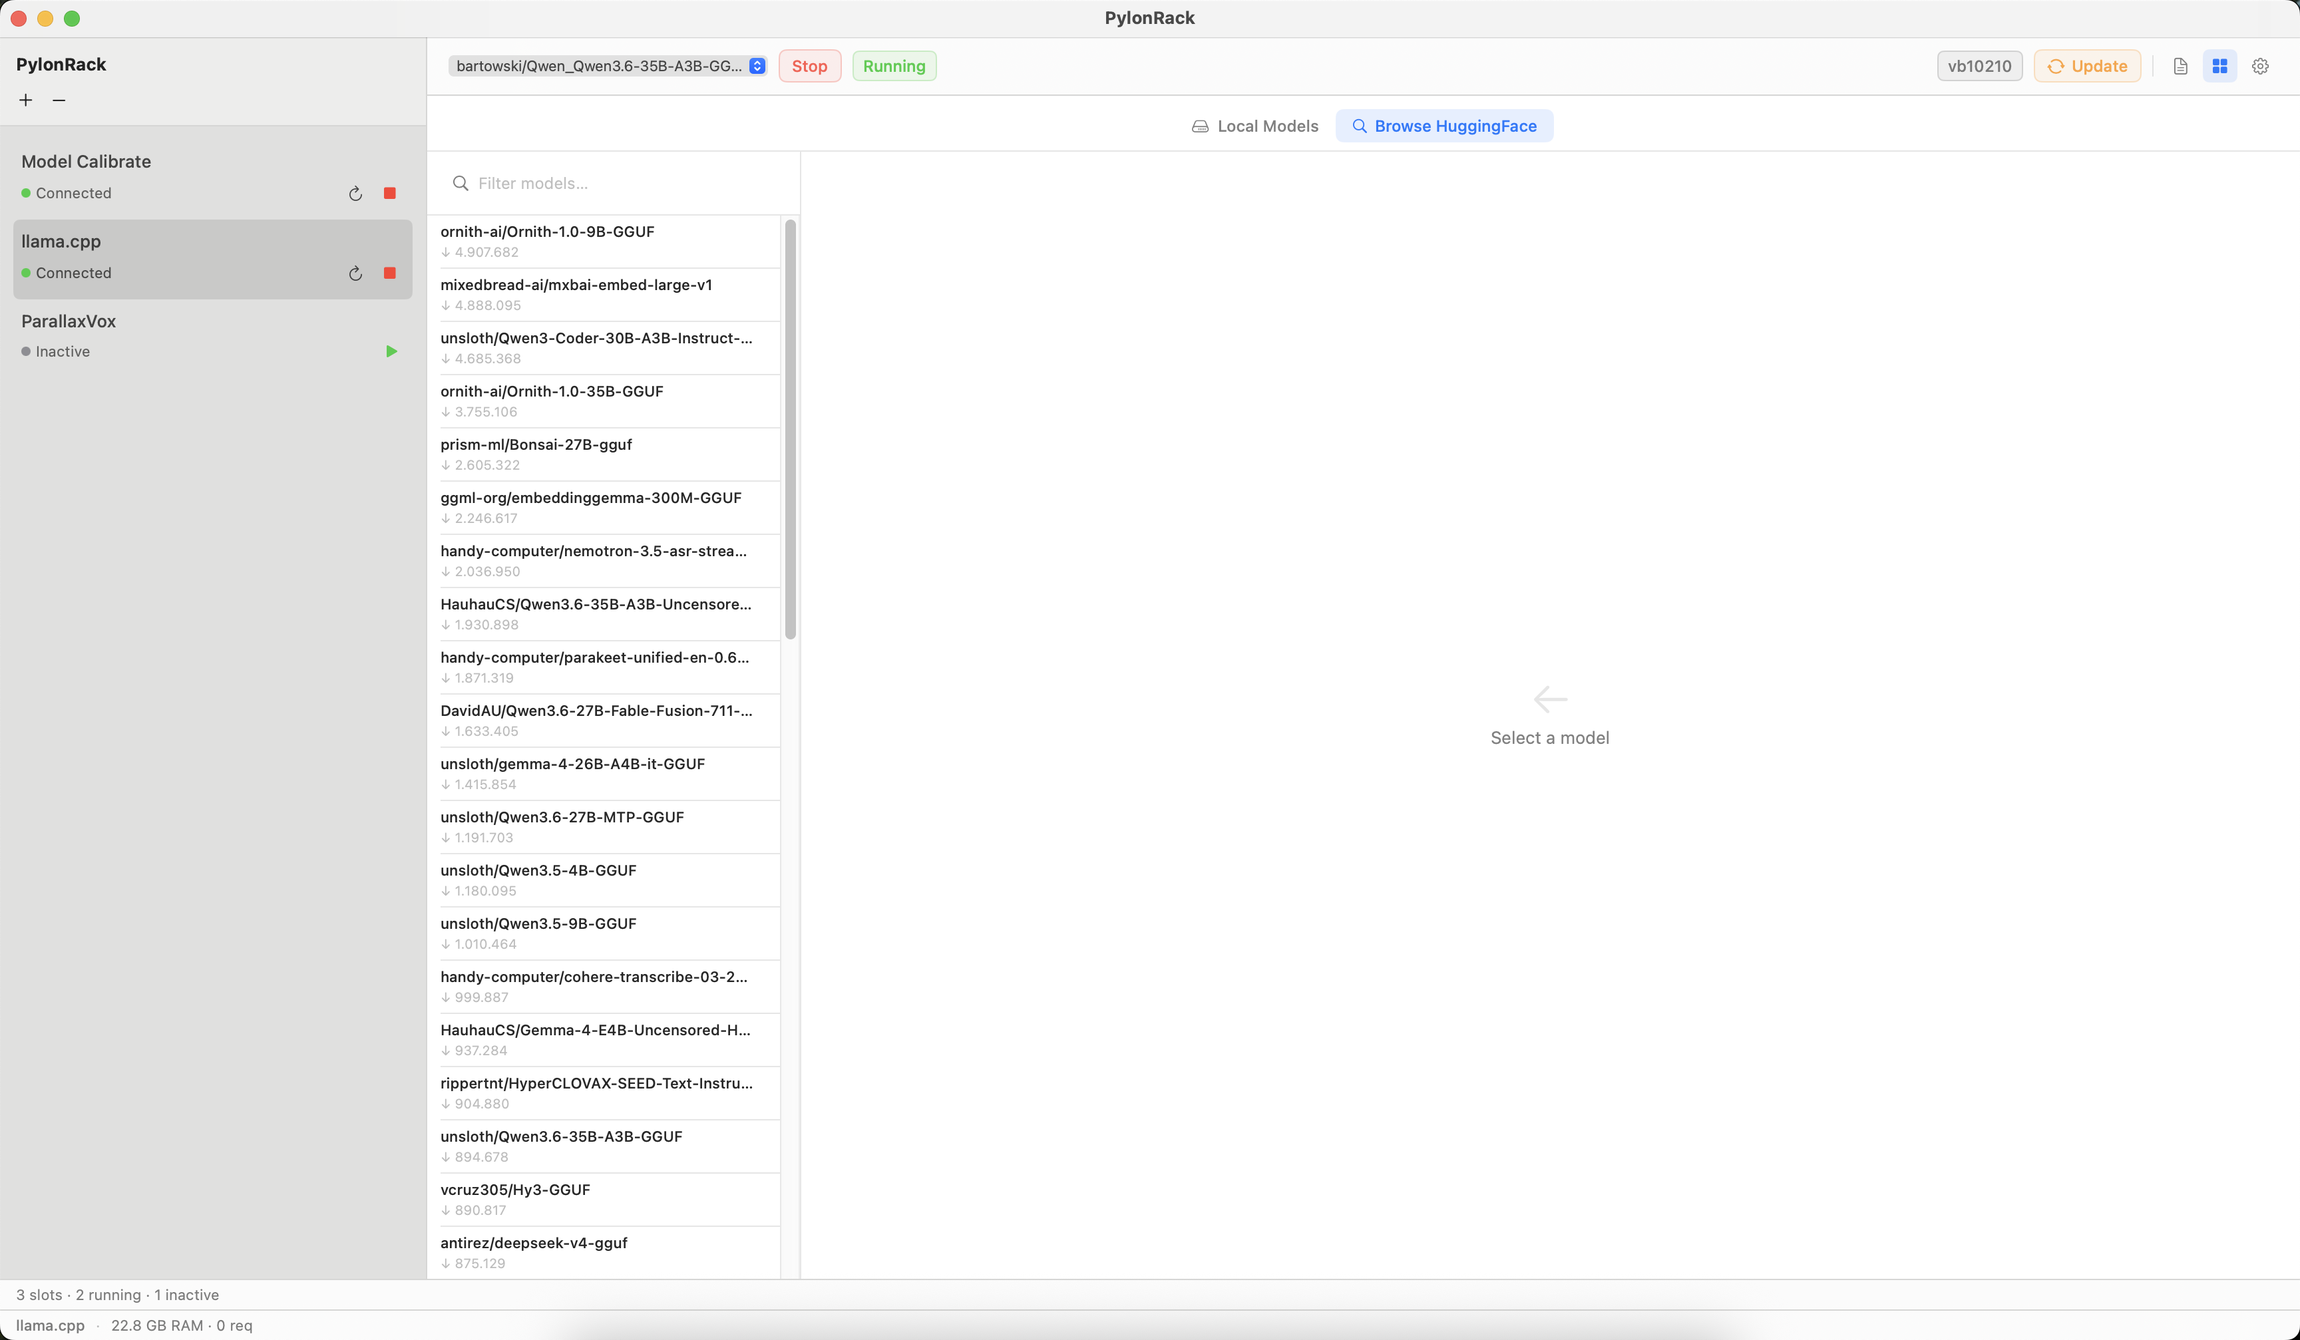
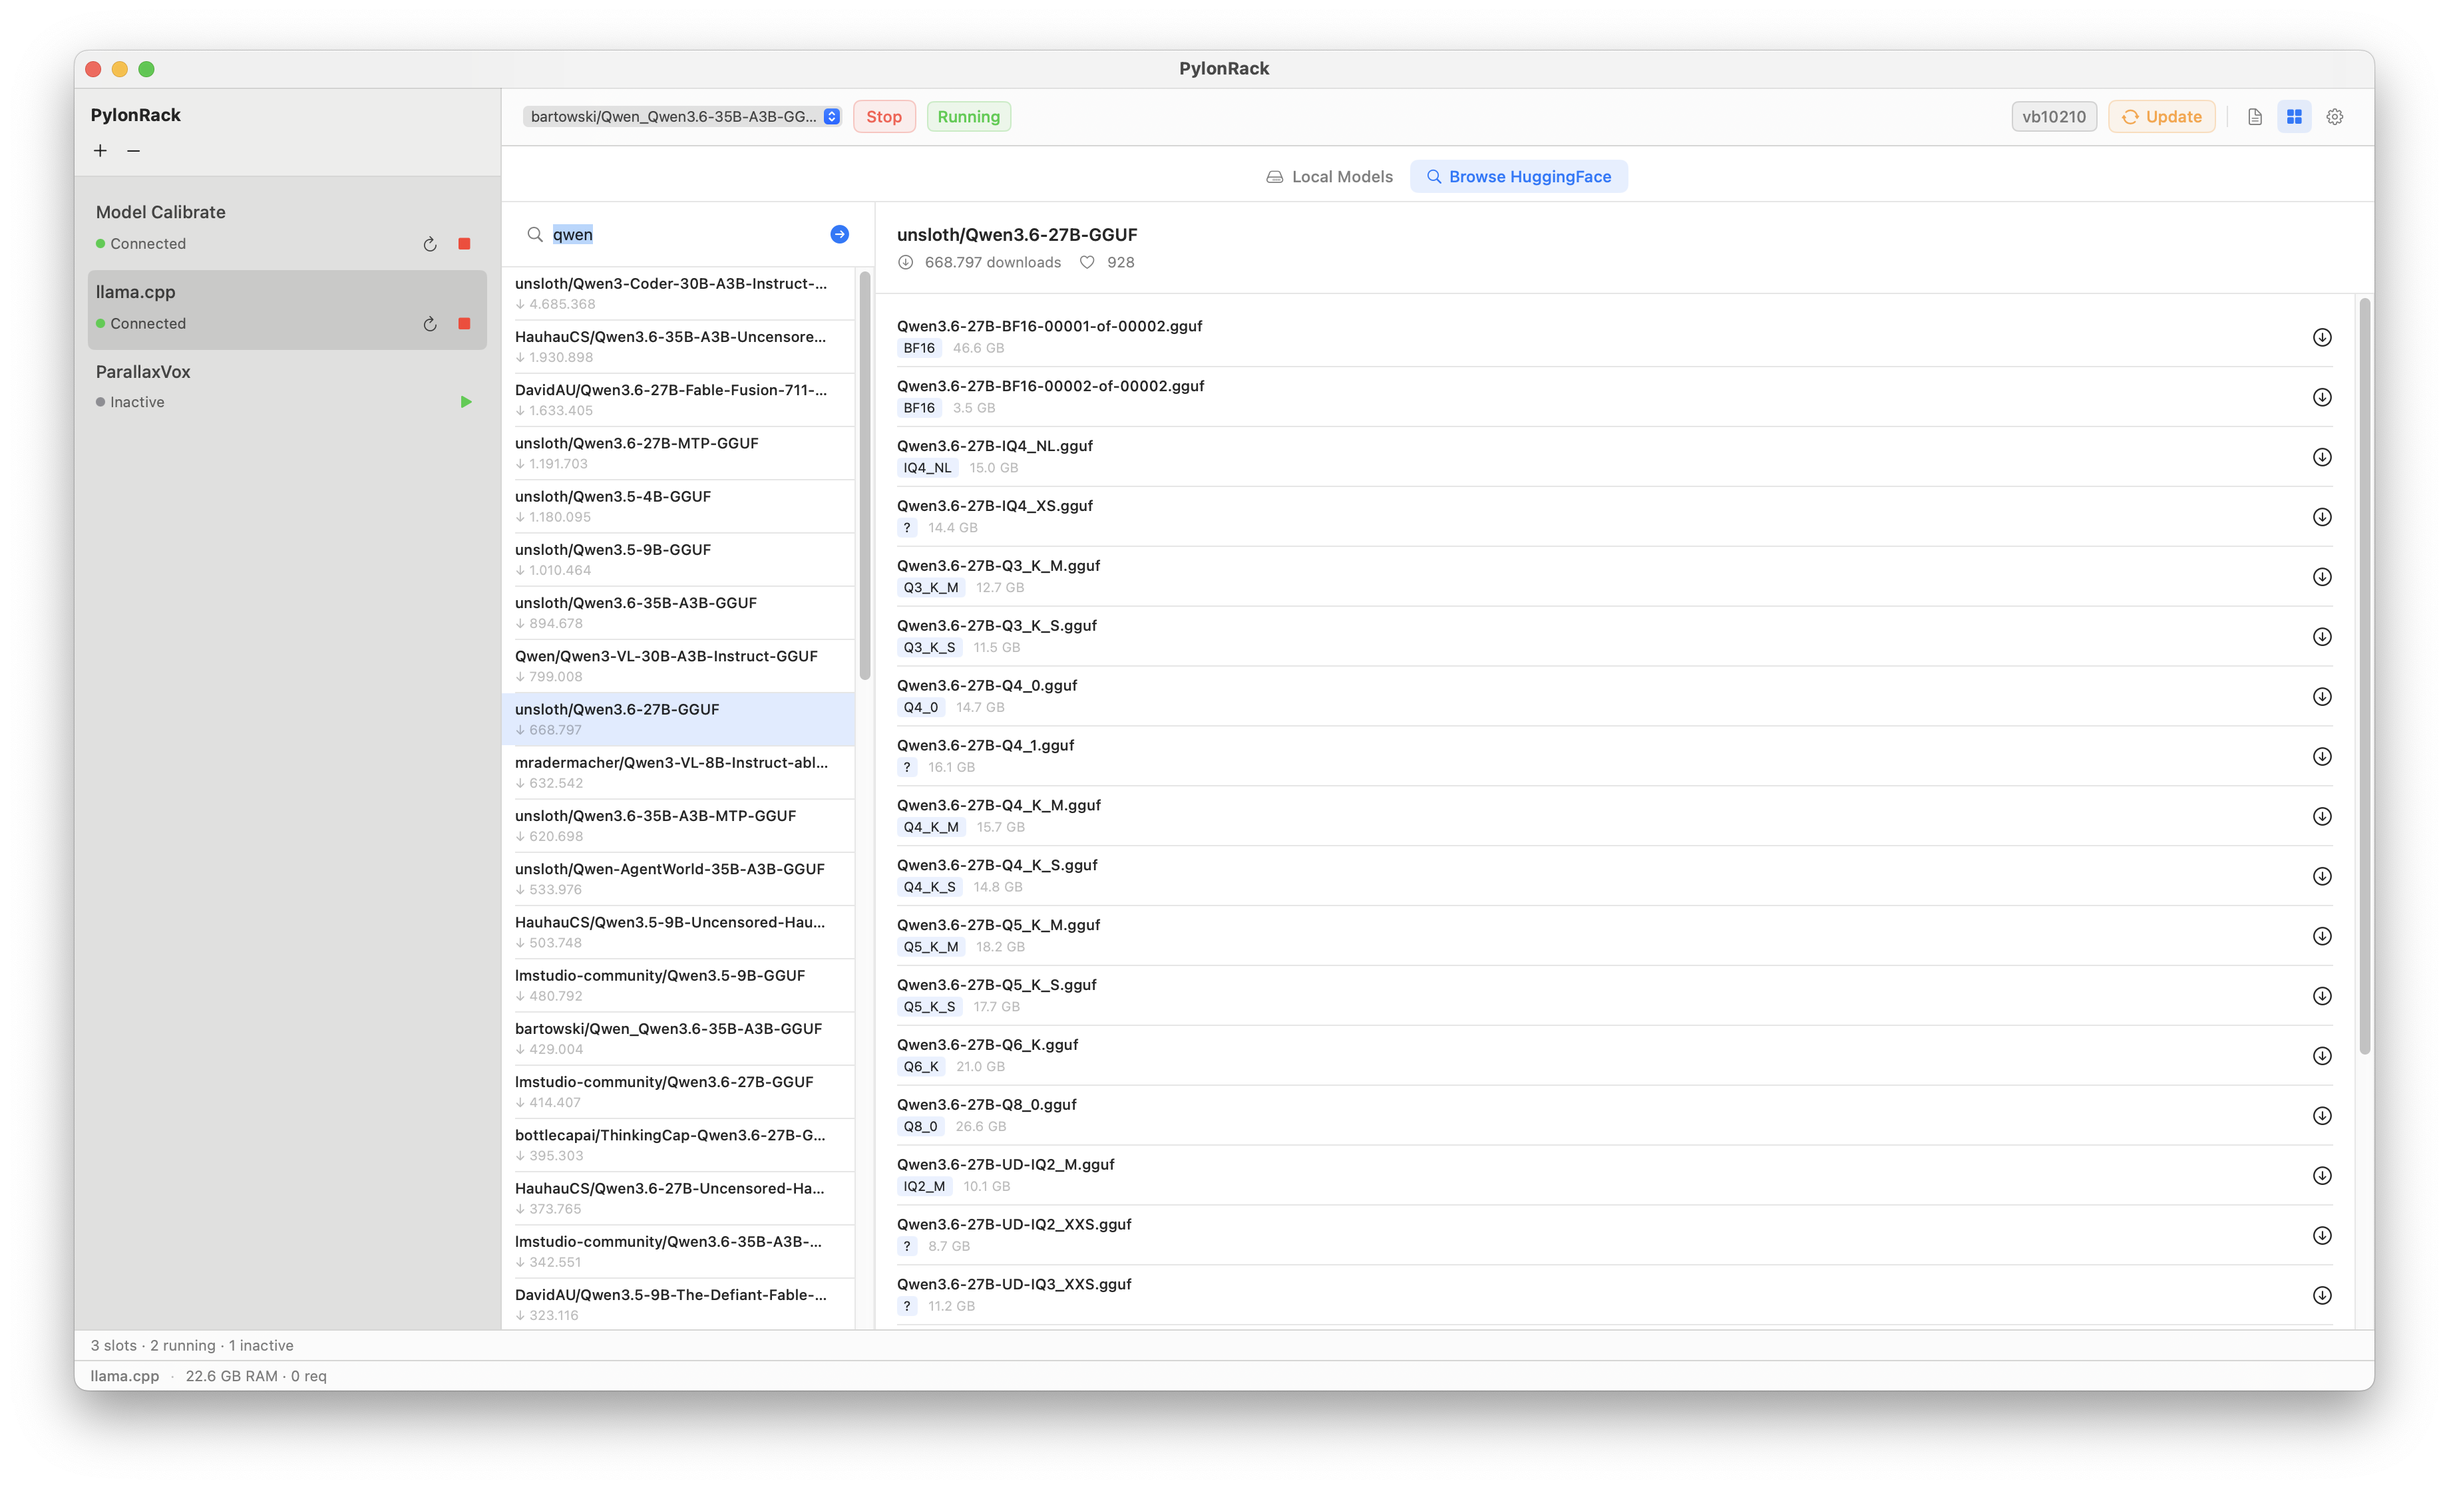
Clarify model discovery and native header controls

diff --git a/README.md b/README.md
@@ -14,23 +14,42 @@ native rack adds the operational controls around it.
 
 ## What it does
 
-- **Model dropdown** — scans your HuggingFace cache and lists all `.gguf` files
+- **Model dropdown** — quickly switches between GGUF models already available
+  in the configured local Hugging Face cache
 - **Start / Stop** — launches and stops `llama-server` with your configured parameters
-- **Update button** — shows current llama.cpp build version (e.g. `b9371`); orange badge when updates available, red badge when binary is outdated vs sources; click to pull + rebuild with live log output
+- **Version and update state** — reports the built llama.cpp version and exposes
+  Update or Rebuild only when action is needed, with live build output
 - **Metrics** — RAM usage and active requests shown in the status bar
 - **Log** — llama-server stdout streamed live to the rack log panel
 - **Chat UI** — llama.cpp built-in web UI displayed in the rack body panel (served directly by llama-server on the same port)
-- **Model Manager** — browse HuggingFace, download new models, delete existing ones
+- **Model Manager** — inspect locally available models or search Hugging Face,
+  compare GGUF quantizations and download a selected file
 
-## Interface
+## Native header
 
-| Local models | Browse Hugging Face |
+PylonRack keeps the controls needed during everyday use in the native header:
+
+| Control | Purpose |
 |---|---|
-| ![Local GGUF models](docs/images/llama-local-models.png) | ![Hugging Face browser](docs/images/llama-huggingface.png) |
+| Model dropdown | Switch the active local GGUF model |
+| Start / Stop | Control the managed `llama-server` process |
+| Status | Show transitions such as Idle, Starting, Running and Updating |
+| `vbNNNN` | Report the currently built llama.cpp version |
+| Update | Pull and rebuild llama.cpp when an update or rebuild is needed |
+| Document | Toggle the process log |
+| Grid | Toggle between llama.cpp chat and model management |
+| Gear | Open per-model server and sampling settings |
 
-The Models control toggles between model management and the built-in llama.cpp
-chat. The model dropdown remains available in the native header, together with
-runtime state and update status.
+## Browse Hugging Face
+
+Search GGUF repositories, inspect their available files and quantizations, and
+download a selected model without leaving PylonRack.
+
+![Browse and download GGUF models from Hugging Face](docs/images/llama-huggingface.png)
+
+The model manager also has a Local Models view for inspecting or removing files
+already present in the cache. The model dropdown in the header remains the
+fastest way to switch the model used by `llama-server`.
 
 ![Per-model llama-server settings](docs/images/llama-settings.png)
 
@@ -126,19 +145,6 @@ pip install -r requirements.txt
 
 ---
 
-## Controls
-
-| Control | Type | Description |
-|---------|------|-------------|
-| Model dropdown | Dropdown | Select from all `.gguf` files in HF cache |
-| Start / Stop | Button | Toggle llama-server |
-| bNNNN | Button | llama.cpp build version; badge = update available or binary outdated |
-| Status | Label | Idle / Starting… / Running / Stopping… / Updating… |
-| 📄 | Toggle | Show/hide process log |
-| ⊞ | Toggle | Show/hide model manager |
-
----
-
 ## Update mechanism
 
 - At startup and every 30 minutes, checks for new commits and binary staleness
@@ -173,5 +179,9 @@ pylonrack-llama/
 
 ## License
 
-MIT — use freely, no warranty. Personal project built through human–AI
-collaboration; use at your own risk.
+MIT — use freely, no warranty.
+
+PylonRack is a personal human–AI collaboration. It was designed and directed
+by an experienced software developer exploring native macOS and Swift
+development for the first time, with AI assisting implementation, testing and
+documentation. Use at your own risk.
